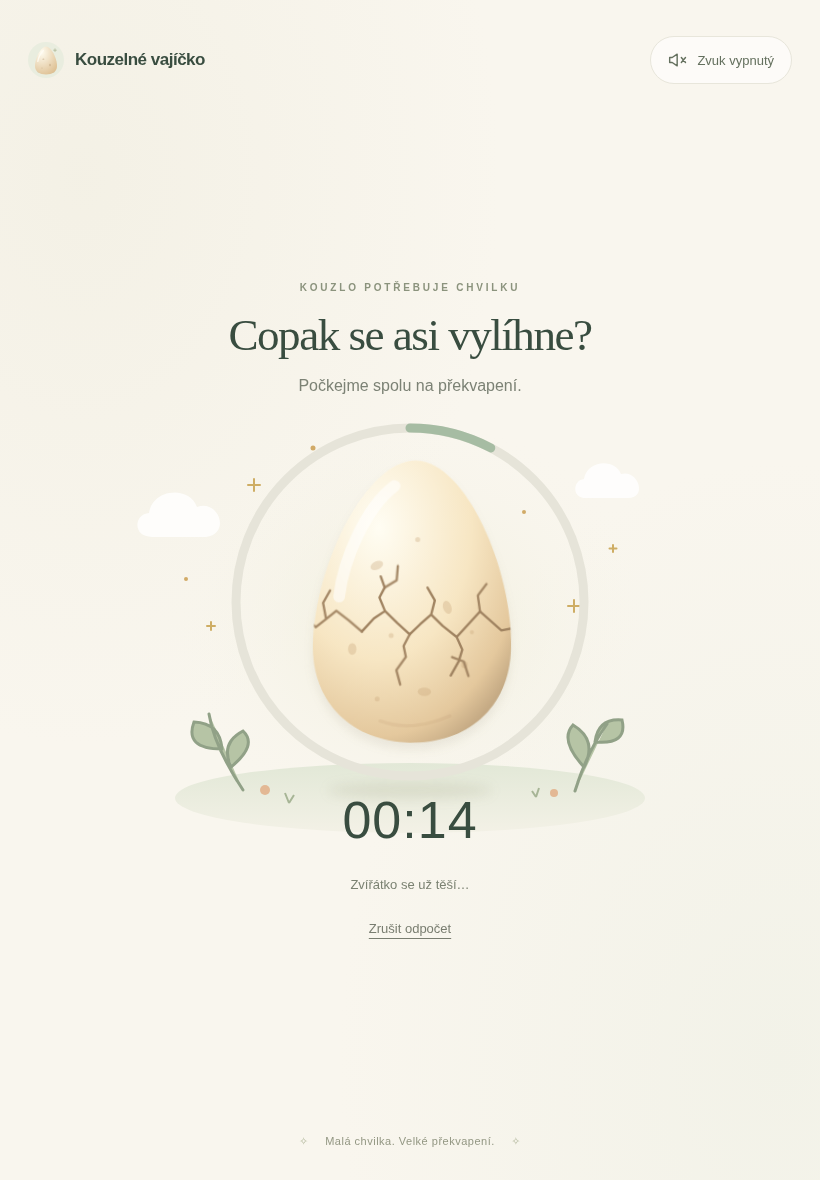
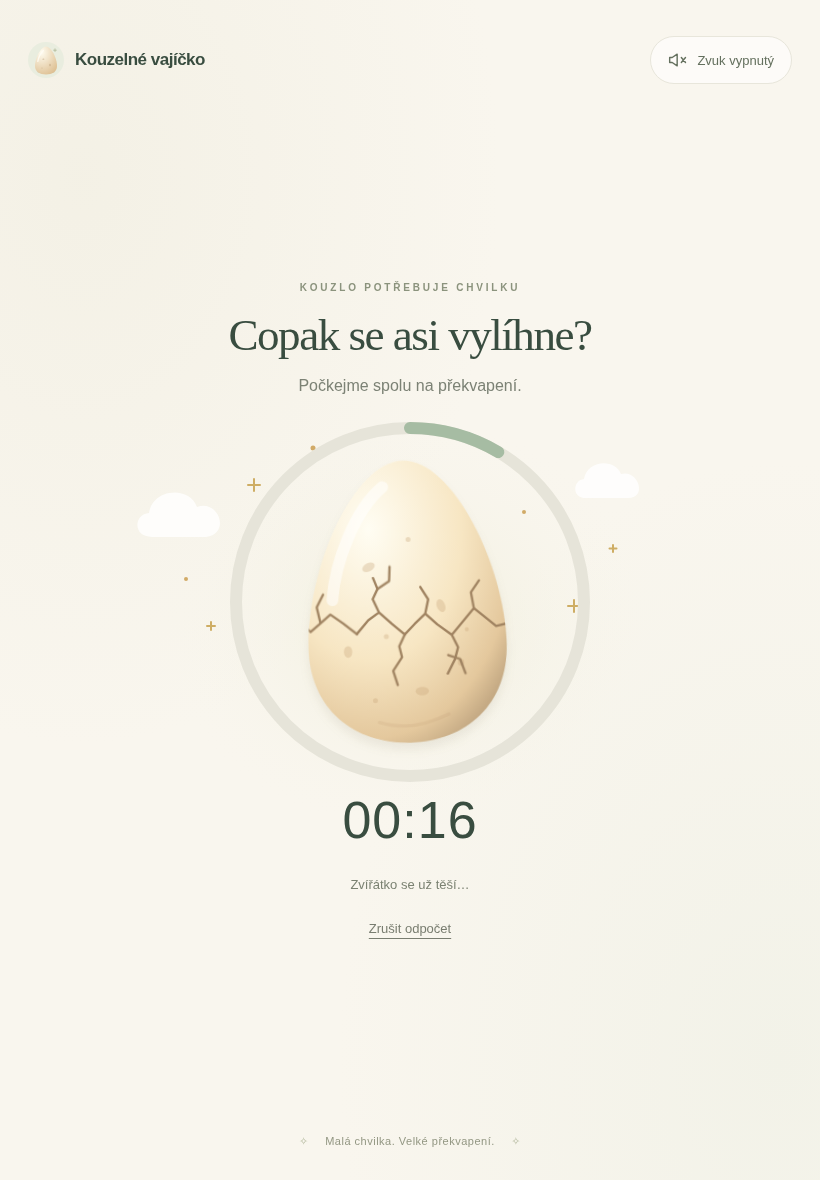
Keep the countdown ring clear of ground decoration and thicken its stroke

diff --git a/tests/browser/flow.spec.js b/tests/browser/flow.spec.js
@@ -146,7 +146,8 @@ test('animated shell stays within the ring at each stage and viewport', async ({
         // Sample the real curved artwork outline in SVG coordinates.
         const path=document.querySelector('#eggSurface > path');
         const length=path.getTotalLength(); let clearance=Infinity;
-        const radius=ring.width*(174-4.5)/360;
+        const stroke=Number.parseFloat(getComputedStyle(document.querySelector('#progress-ring')).strokeWidth);
+        const radius=ring.width*(174-stroke/2)/360;
         for(let i=0;i<=160;i++) {
           const p=path.getPointAtLength(length*i/160);
           const point=new DOMPoint(p.x,p.y).matrixTransform(matrix);
@@ -244,4 +245,21 @@ test('cracks actually render in the SVG use instances at every stage', async ({p
     images.push(await page.screenshot({clip:{x:box.x+box.width*.2,y:box.y+box.height*.38,width:box.width*.6,height:box.height*.42}}));
   }
   for(let i=1;i<images.length;i++) expect(images[i].equals(images[i-1])).toBe(false);
+});
+
+
+test('countdown ring has a clear backdrop and thicker outline in both orientations', async ({page}) => {
+  await page.goto('./');
+  await expect(page.locator('.scenery-ground')).toBeVisible();
+  await page.locator('#start').click();
+  for(const viewport of [{width:820,height:1180},{width:1180,height:820}]) {
+    await page.setViewportSize(viewport);
+    await expect(page.locator('#progress-ring')).toHaveCSS('stroke-width','12px');
+    await expect(page.locator('.scenery-ground')).toHaveCSS('visibility','hidden');
+    await expect(page.locator('.egg-shadow')).toHaveCSS('visibility','hidden');
+    await expect(page.locator('#progress-ring')).toHaveCSS('opacity','1');
+  }
+  await page.locator('#cancel').click();
+  await expect(page.locator('.scenery-ground')).toBeVisible();
+  await expect(page.locator('.egg-shadow')).toBeVisible();
 });

diff --git a/index.html b/index.html
@@ -36,10 +36,12 @@
             <g fill="#fff" opacity=".8"><path d="M92 130c-20 0-18-23-3-24 3-24 40-28 48-6 22-8 34 27 9 30z"/><path d="M526 91c-15 0-13-18-2-19 3-19 31-21 37-5 17-5 27 24 7 24z"/></g>
             <g stroke="#cead64" stroke-width="2" stroke-linecap="round"><path d="M194 72v12m-6-6h12M514 193v12m-6-6h12M553 138v7m-3.5-3.5h7M151 215v8m-4-4h8"/></g>
             <g fill="#d1aa67"><circle cx="253" cy="41" r="2.5"/><circle cx="464" cy="105" r="2"/><circle cx="126" cy="172" r="2"/></g>
+            <g class="scenery-ground">
             <ellipse cx="350" cy="391" rx="235" ry="35" fill="url(#hill)"/>
             <g stroke="#91a187" stroke-width="3" fill="#b6c4a5" stroke-linecap="round"><path d="M183 383q-29-44-34-76m13 35q-38 0-28-27 26 1 28 27m9 18q27-22 12-36-23 12-12 36"/><path d="M515 384q12-39 32-67m-23 43q-25-27-11-42 25 15 11 42m11-25q33 3 27-22-24-2-27 22"/></g>
             <g fill="#e3b894"><circle cx="205" cy="383" r="5"/><circle cx="494" cy="386" r="4"/></g>
             <g stroke="#a7b596" stroke-width="2" fill="none"><path d="m229 396-4-10m4 10 5-8m242 2 3-9m-3 9-4-6"/></g>
+            </g>
           </svg>
           <div class="egg-shadow"></div>
           <div class="egg-progress">

diff --git a/style.css b/style.css
@@ -716,7 +716,7 @@ main[data-state=countdown] .scene-note,main[data-state=hatched] .scene-note{
 }
 
 /* One responsive coordinate system keeps the rocking shell inside the ring.
-   At 360px: inner radius 169.5px, visible shell half-height 141px;
+   At 360px: inner radius 168px, visible shell half-height 141px;
    the remaining clearance accommodates idle translation and all rocking. */
 .scene{
   --egg-size:360px
@@ -742,7 +742,7 @@ main[data-state=countdown] .scene-note,main[data-state=hatched] .scene-note{
   width:100%;
   height:100%;
   fill:none;
-  stroke-width:9;
+  stroke-width:12;
   opacity:0;
   transition:opacity .25s;
   pointer-events:none
@@ -804,4 +804,11 @@ main[data-state=countdown] .egg-progress .time{
 }
 main[data-state=countdown] .scene{
   min-height:calc(var(--egg-size) + 90px)
+}
+
+/* Ground decoration belongs to the resting/revealed character. Give the
+   countdown ring a clear backdrop all the way around, including at six o'clock. */
+main[data-state=countdown] .scenery-ground,
+main[data-state=countdown] .egg-shadow{
+  visibility:hidden
 }

diff --git a/README.md b/README.md
@@ -39,7 +39,7 @@ All 30 animal illustrations are original local SVGs under `assets/animals/`, wit
 
 Edit the SVGs directly or edit `scripts/draw-animals.py` and run `python3 scripts/draw-animals.py` to regenerate the full set. Shared drawing helpers cover lighting and facial details; each animal's anatomy is composed separately. If adding an animal in a future version, update definitions, artwork, the generator count assertion, and tests together. This release intentionally contains exactly 30.
 
-The egg's independent top, bottom and crack layers live in `index.html`. A responsive square contains both the original shell and a thin sage SVG countdown ring with a neutral track. The shell scales proportionally with room for its animated bounds; the MM:SS cue sits directly below the ring in portrait and landscape. Animation frames read the same saved deadline as the numerical timer, with the existing interval as a lifecycle fallback. The arc is explicitly hidden at zero and the track fades before the shell fragments move.
+The egg's independent top, bottom and crack layers live in `index.html`. A responsive square contains both the original shell and a sage SVG countdown ring with a neutral track and a 12-unit stroke. The shell scales proportionally with room for its animated bounds; the MM:SS cue sits directly below the ring in portrait and landscape. Animation frames read the same saved deadline as the numerical timer, with the existing interval as a lifecycle fallback. The ground illustration and ground shadow are hidden during countdown so the full ring stays clear against the background; they remain on the ready and animal screens. The arc is explicitly hidden at zero and the track fades before the shell fragments move.
 
 At 50%, 75% and 90% elapsed, cumulative rounded fracture paths appear on the original shell. Paths are clipped to the shell and included in both splitting halves, so the final hatch preserves them. Inherited CSS properties reach SVG `use` instances in Safari and Chromium. Restoring or resuming immediately sets the appropriate stage without replaying earlier transitions. No additional session state or scheduled crack timers are needed. The icons are local PNGs plus an SVG source in `assets/icon.svg`; maskable artwork has a padded safe area.
 
@@ -80,7 +80,7 @@ The Node suite covers duration bounds/steps, Czech duration labels, MM:SS format
 
 The extended tests cover exact progress/stage boundaries, clamping and restoration; all 30 distinct sound mappings; actual audio completion ordering and cancellation; unavailable audio; smooth browser progress; visible crack pixels inside SVG instances; and shell clearance sampled along the curved artwork throughout its rocking cycles. Layout checks cover seven viewport sizes from 320×568 through iPad portrait and landscape. Existing flow, offline, preferences, reduced-motion and nonrepetition coverage remains in place.
 
-Verified in this workspace: **16 Node tests and 33 browser tests passed** (11 each in Chromium portrait, Chromium landscape and WebKit landscape), along with the production build and `git diff --check`. Review screenshots are linked below and in the feature pull request. Physical iPad testing remains a device-level follow-up. Local WebKit uses temporary Debian libraries and a launcher outside the repository; CI uses the standard Playwright browser installation above.
+Verified in this workspace: **16 Node tests and 36 browser tests passed** (12 each in Chromium portrait, Chromium landscape and WebKit landscape), along with the production build and `git diff --check`. Review screenshots are linked below and in the feature pull request. Physical iPad testing remains a device-level follow-up. Local WebKit uses temporary Debian libraries and a launcher outside the repository; CI uses the standard Playwright browser installation above.
 
 Pages provisioning through the GitHub API returned `403 Resource not accessible by integration`; the manual **Settings → Pages → Source → GitHub Actions** selection above is required before the first deployment. This does not affect the app or pull request.
 
